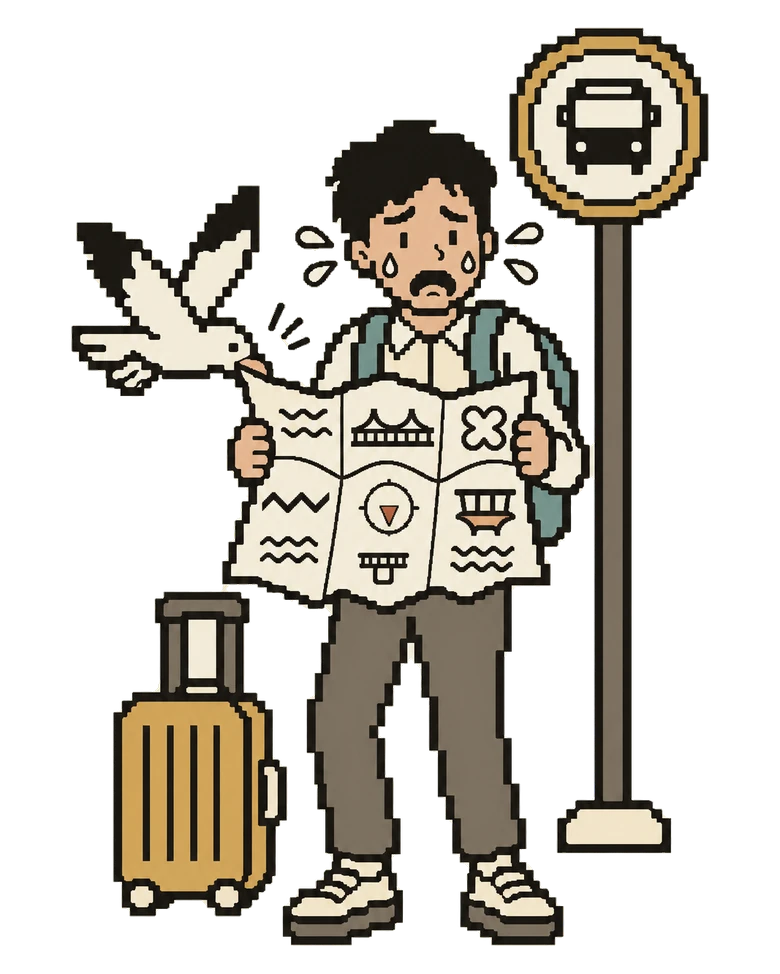
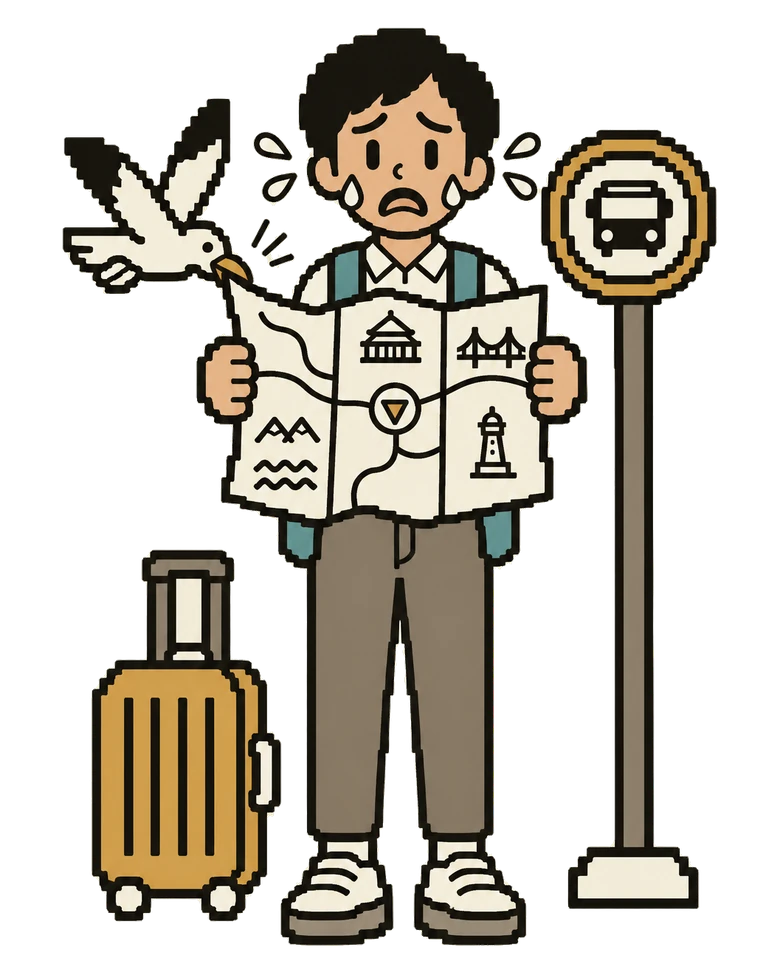
KAN-325 5등급 그림 개정 - 비율·머리 통일, 스탬프 제거, 명예주민 어깨띠, 토박이 건배 자세와 부울경 외곽 지도, 링크 미리보기를 공유 카드 배치로

diff --git a/assets/web/build.py b/assets/web/build.py
@@ -180,24 +180,16 @@ def draw_og(cut: Image.Image) -> Image.Image:
     card.alpha_composite(fig, (OG_PAD, (OG_H - fig.height) // 2))
 
     draw = ImageDraw.Draw(card)
-    left = OG_PAD + int(OG_W * OG_FIGURE_W) + 56
-    avail = OG_W - OG_PAD - left
+    axis = OG_W * 3 // 4  # 카드를 반으로 나눈 오른쪽 절반의 가운데
+    avail = OG_W // 2 - 2 * OG_PAD
 
-    # 제목 종이 조각 — 잉크 테두리 + 오프셋 그림자(KAN-161). 카드가 800×400의 1.5배라 그림자와
-    # 테두리도 그만큼 굵게 잡는다. 조각이 오른쪽 여백을 넘으면 글자를 줄여 맞춘다.
-    pad_x, pad_y = 32, 14
+    # 제목 글자. 오른쪽 절반을 넘으면 글자를 줄여 맞춘다.
     size = 104
-    while True:
-        title_font = ImageFont.truetype(str(FONT_JUA), size)
-        chip_w = int(draw.textlength(OG_TITLE, font=title_font) + 2 * pad_x)
-        if chip_w + 5 <= avail or size <= 56:
-            break
+    title_font = ImageFont.truetype(str(FONT_JUA), size)
+    while draw.textlength(OG_TITLE, font=title_font) > avail and size > 56:
         size -= 4
-    chip_h = size + 2 * pad_y
-    x, y = left, OG_H // 2 - chip_h // 2
-    draw.rectangle([x + 5, y + 6, x + chip_w + 5, y + chip_h + 6], fill=PAPER_SHADOW)
-    draw.rectangle([x, y, x + chip_w, y + chip_h], fill=CREAM, outline=INK, width=4)
-    draw.text((x + pad_x, y + chip_h // 2), OG_TITLE, font=title_font, fill=INK, anchor="lm")
+        title_font = ImageFont.truetype(str(FONT_JUA), size)
+    draw.text((axis, OG_H // 2), OG_TITLE, font=title_font, fill=INK, anchor="mm")
 
     # 브랜드 줄은 본문 고딕이지만, 그 글꼴이 없는 환경(맥 밖)에서는 Jua로 떨어진다. 그때
     # 가운뎃점(U+00B7)이 Jua에 없어 두부가 되므로, 떨어진 경우에만 같은 검사를 건다.
@@ -206,7 +198,16 @@ def draw_og(cut: Image.Image) -> Image.Image:
     else:
         shots.assert_glyphs(OG_BRAND)
         brand_font = ImageFont.truetype(str(FONT_JUA), 30)
-    draw.text((left, OG_H - OG_PAD), OG_BRAND, font=brand_font, fill=MUTED, anchor="ls")
+    # 앱 마크 + 브랜드 줄을 한 묶음으로 제목과 같은 축에 맞춘다.
+    mark = chars.load_mark()
+    mark = mark.resize((mark.width * 45 // mark.height, 45), Image.LANCZOS)
+    gap = 14
+    while mark.width + gap + draw.textlength(OG_BRAND, font=brand_font) > avail:
+        brand_font = brand_font.font_variant(size=brand_font.size - 1)
+    group_w = mark.width + gap + int(draw.textlength(OG_BRAND, font=brand_font))
+    mark_x, mark_y = axis - group_w // 2, OG_H - OG_PAD - mark.height
+    card.alpha_composite(mark, (mark_x, mark_y))
+    draw.text((mark_x + mark.width + gap, mark_y + mark.height // 2), OG_BRAND, font=brand_font, fill=MUTED, anchor="lm")
     return card.convert("RGB")
 
 

diff --git a/assets/characters/wannabe/prompt.md b/assets/characters/wannabe/prompt.md
@@ -1,44 +1,23 @@
-Use case: identity-preserve. Regenerate a portrait 1024x1536 pixel art character asset. The matching current image is the edit target; traveler reference anchors the same person's black hair, head size, body proportions, outline weight and muted palette. Preserve identity across the series. Head size approximately 240 pixels tall including hair, person at least 55% of canvas height. Crisp square pixels on a single consistent coarse grid, chunky silhouette with a one-grid-pixel ink outline. Flat fills ONLY these eight colors: cream #F3ECD9, shade #CFC5AA, ink #1C1A17, warm gray #6B6459, terracotta #A8503A, ochre #C49A4A, dusty teal #6F8F8A, tan #DDB892. Skin is tan. No anti-aliasing, blur, gradients, dithering or texture. Background entirely flat uniform cream #F3ECD9. At least 8% empty margin on EVERY side. No floor, horizon, vignette, logo, signature or watermark. No text except explicitly requested Korean text. Keep the entire figure and every prop within margins.
+Use the built-in `image_gen` tool (default mode, no CLI fallback). Do not ask questions. Do not write SVG or draw by code. Save the file in the current directory, portrait 1024x1536.
 
-Input image 1 is matching current wannabe; image 2 is traveler identity/style reference; image 3 is old paper-cut wannabe ONLY for plain t-shirt and solid black sunglasses, never its medium. Replace outfit with plain short-sleeve cream t-shirt bearing exactly "호소인" large and centered across chest, plain warm gray trousers, sneakers. No jacket, badge or bag strap across text. Solid black sunglasses cover eyes. Head faces FRONT and tilts back slightly; huge open-mouth SHOUT into handheld microphone. Megaphone at hip with exactly three ochre lightning bolts. Half-filled stamp card sticks from trouser pocket. Chest text must be unobstructed, exactly 호소인. Everything in pixel art, no paper-cut styling.
+Attached: (1) the draft of this tier, keep its idea, (2) the proportion reference.
+`wannabe.png`: head tilted back, huge open-mouth shout, solid black sunglasses. Plain cream short-sleeve t-shirt with exactly the Korean text "호소인" large in the center of the chest, shirt fully outlined with both sleeves, both side seams and a continuous hem. One fist grips a black radio speaker microphone at the mouth, fingers wrapped round it. A coiled black cord starts at the bottom of the microphone, comes down through the gap between the raised arm and the torso, and runs outside the shirt's side seam to the narrow end of the megaphone. No cord on the arm. Megaphone at the hip on the viewer's right, clipped to the belt, wide bell facing the viewer's left. Three ochre bolts at thigh and knee level on the viewer's left, none near the groin. Other hand on hip.
 
-
-## 후속 편집 (순서대로)
-
-Use the built-in `image_gen` tool (default mode, no CLI fallback), editing the first attached image. Do not ask questions. Do not write SVG or draw by code. Save `wannabe.png` in the current directory, portrait 1024x1536.
-
-Attached: (1) the base pixel art to edit, its t-shirt is complete and correct, (2) the older paper-cut version, reference ONLY for the radio microphone, coiled cord and megaphone, (3) the last attempt, reference ONLY for the look of the radio microphone body and the round stamps. Attempt 3 has defects listed below, do not copy them.
-
-Keep from image 1: person, face, sunglasses, shout, t-shirt with the Korean text "호소인", trousers, shoes, left arm on hip, pixel style, position and scale.
-
-Make these changes to image 1:
-1. Hand and microphone: replace the ball microphone with a rectangular radio speaker microphone. The raised hand must grip it: fingers wrapped around the microphone body, with the body visibly inside the fist, held at the mouth. It must not float next to the hand.
-2. Megaphone: same place as in image 1, at the hip on the viewer's right, reversed so the wide bell faces the viewer's left and the narrow end faces right. A short strap runs from the viewer's right shoulder down the side of the torso to the megaphone so it hangs from something. The strap stays clear of the text.
-3. Cord: a coiled black cord runs from the bottom of the microphone to the narrow end of the megaphone. It passes OVER the shirt and arm as a separate object, and nothing under it is erased.
-4. Bolts: three ochre lightning bolts from the bell, placed low, on the viewer's left thigh and knee level, fanning left and downward. None in the crotch or groin area.
-5. Stamp card: small, in the trouser pocket on the viewer's left, with round terracotta stamps.
-
-Defects from attempt 3 that must not appear: hand not holding the microphone; the right side seam of the t-shirt missing; the t-shirt hem missing so the shirt melts into the background; the right sleeve missing; bolts on the groin.
-The t-shirt must have a complete closed ink outline: both sleeves, both side seams, and a continuous hem across the waist, all visible around the megaphone and cord.
-
-Use only these flat colors: cream #F3ECD9, shade #CFC5AA, ink #1C1A17, warm gray #6B6459, terracotta #A8503A, ochre #C49A4A, dusty teal #6F8F8A, tan #DDB892. Crisp square pixels, no blur or gradient. Background stays one flat uniform cream #F3ECD9. Nothing touches an edge. No new text, logo or watermark.
-
+Proportions, matching the reference: the head is about one fifth of the full standing height (about 4.7 heads tall), head height about 170 px, whole figure about 800 px tall, same pixel size and ink outline weight, same neat short black hair with a side part.
+NO stamps anywhere: no stamp card, stamp book or stamp circles.
+Pixel art look: crisp square pixels, no blur or gradient. Only these flat colors: cream #F3ECD9, shade #CFC5AA, ink #1C1A17, warm gray #6B6459, terracotta #A8503A, ochre #C49A4A, dusty teal #6F8F8A, tan #DDB892. Skin is tan. Background one flat uniform cream #F3ECD9. No floor or texture. At least 8% empty margin on every side. No logo, signature or watermark.
 After saving, print: DONE wannabe.png <width>x<height>.
 
 
 ---
 
-Use the built-in `image_gen` tool (default mode, no CLI fallback), editing the first attached image. Do not ask questions. Do not write SVG or draw by code. Save `wannabe.png` in the current directory, portrait 1024x1536.
+Use the built-in `image_gen` tool (default mode, no CLI fallback), editing the attached image. Do not ask questions. Do not write SVG or draw by code. Save `wannabe.png` in the current directory, portrait 1024x1536.
 
-Attached: (1) the image to edit, (2) reference ONLY for the t-shirt's right sleeve and side seam.
+Keep everything exactly: person, face, sunglasses, radio microphone in the fist, t-shirt with the Korean text "호소인", sleeves, side seams, hem, belt, trousers, shoes, other hand on hip, colors, position and scale.
 
-Keep everything in image 1 exactly, including the hand gripping the radio microphone, the megaphone, the three bolts, the stamp card, the face, and the text "호소인". Fix only these:
-1. Delete the ochre strap completely. It reads as a stick. Nothing replaces it across the shirt. Restore the plain shirt under it.
-2. Restore the t-shirt's short right sleeve from image 2: the sleeve end with its ink outline wraps the upper arm near the elbow, and the shirt's side seam runs unbroken from the armpit to the hem, as in image 2.
-3. Route the coiled cord from the bottom of the microphone outward, over the forearm, then down outside the elbow to the narrow end of the megaphone. Keep it clear of the sleeve end and side seam so both stay fully visible.
-4. Add one small dark clip joining the narrow end of the megaphone to the waistband, so it hangs from the belt.
+Change only this: raise the megaphone so its center sits at belt height, right beside the belt buckle area, still on the viewer's right side and still facing the viewer's left. Move its clip so it hangs from the belt. The three ochre bolts move up with it, staying beside the bell and to the left of it, level with the upper thigh, none on the groin. The coiled cord still runs unbroken from the microphone to the narrow end of the megaphone, just shorter. The shirt hem, side seam and the text stay fully visible. Trousers where the megaphone used to be are restored plainly.
 
-Checks before saving: shirt outline closed on both sides, continuous hem, both sleeves visible, no ochre line on the torso. Colors, crisp pixels and flat cream background stay as in image 1. Nothing touches an edge. No new text, logo or watermark.
+Crisp square pixels, same colors, flat uniform cream background. Nothing touches an edge. No new text, logo or watermark.
 
 After saving, print: DONE wannabe.png <width>x<height>.
 
@@ -47,10 +26,24 @@ After saving, print: DONE wannabe.png <width>x<height>.
 
 Use the built-in `image_gen` tool (default mode, no CLI fallback), editing the attached image. Do not ask questions. Do not write SVG or draw by code. Save `wannabe.png` in the current directory, portrait 1024x1536.
 
-Keep everything in the attached image exactly, including the face, the hand gripping the radio microphone, the t-shirt with both sleeves, side seams and hem, the text "호소인", the megaphone and its clip, the bolts, the stamp card. Change only these:
-1. Radio microphone: its body becomes near-black #1C1A17, with its grille lines in cream #F3ECD9 so it still reads as a radio. Same shape, size and place, still gripped by the same fingers.
-2. Coiled cord: remove every part of the cord from the forearm and elbow. The arm must be clean bare skin with no cord on it or behind it. Draw a new coiled black cord that starts at the bottom of the microphone, right under the fist, and comes straight down through the gap between the raised arm and the torso, passing on the inner side of the arm, then runs down along the outside of the shirt's right side seam to the narrow end of the megaphone. It is one unbroken cord from microphone to megaphone. It does not touch the text, and does not hide the sleeve end, side seam or hem.
+Keep everything exactly: person, face, sunglasses, radio microphone in the fist, t-shirt with the Korean text "호소인", sleeves, belt, trousers, shoes, other hand on hip, colors, position and scale.
 
-Checks before saving: forearm has no cord; cord is continuous and visibly attached at both ends; shirt outline still closed. Colors, crisp pixels and flat cream background stay as in the image. Nothing touches an edge. No new text, logo or watermark.
+Change only this: move the whole megaphone straight UP by about 130 px, so the vertical center of its bell sits ON the belt line, about y=790 in the 1536 px image. The top of the bell rises over the lower part of the shirt, and the bell hides a short piece of the belt and shirt hem behind it. It stays at the same x position, still facing the viewer's left. The three ochre bolts move up with it by the same amount, staying left of the bell and outside the body at waist level. The coiled cord still runs unbroken from the microphone to the narrow end of the megaphone, just shorter, and stays clear of the text. Restore plain trousers where the megaphone was. The text "호소인" stays fully visible.
+
+Crisp square pixels, same colors, flat uniform cream background. Nothing touches an edge. No new text, logo or watermark.
+
+After saving, print: DONE wannabe.png <width>x<height>.
+
+
+---
+
+Use the built-in `image_gen` tool (default mode, no CLI fallback), editing the attached image. Do not ask questions. Do not write SVG or draw by code. Save `wannabe.png` in the current directory, portrait 1024x1536.
+
+Keep everything exactly, including the megaphone position, the person, the hand on hip, the text "호소인", the cord and the trousers.
+
+Change only this: the three ochre lightning bolts currently sit on top of the hand on the hip, which is wrong. Remove them from there and restore the hand and arm cleanly. Draw three smaller ochre bolts right in front of the megaphone bell, fanning left, on the lower shirt just left of the bell, between the bell and the hand. They touch neither the hand, nor the text, nor the belt buckle.
+Also restore the belt: one continuous belt across the waist with a buckle, passing behind the megaphone.
+
+Crisp square pixels, same colors, flat uniform cream background. Nothing touches an edge. No new text, logo or watermark.
 
 After saving, print: DONE wannabe.png <width>x<height>.

diff --git a/assets/characters/native/prompt.md b/assets/characters/native/prompt.md
@@ -1,3 +1,58 @@
-Use case: identity-preserve. Regenerate a portrait 1024x1536 pixel art character asset. The matching current image is the edit target; traveler reference anchors the same person's black hair, head size, body proportions, outline weight and muted palette. Preserve identity across the series. Head size approximately 240 pixels tall including hair, person at least 55% of canvas height. Crisp square pixels on a single consistent coarse grid, chunky silhouette with a one-grid-pixel ink outline. Flat fills ONLY these eight colors: cream #F3ECD9, shade #CFC5AA, ink #1C1A17, warm gray #6B6459, terracotta #A8503A, ochre #C49A4A, dusty teal #6F8F8A, tan #DDB892. Skin is tan. No anti-aliasing, blur, gradients, dithering or texture. Background entirely flat uniform cream #F3ECD9. At least 8% empty margin on EVERY side. No floor, horizon, vignette, logo, signature or watermark. No text except explicitly requested Korean text. Keep the entire figure and every prop within margins.
+Use the built-in `image_gen` tool (default mode, no CLI fallback). Do not ask questions. Do not write SVG or draw by code. Save `native.png` in the current directory, portrait 1024x1536.
 
-Input image 1 is matching current native; image 2 is traveler identity/style reference. Preserve black suit, wooden ochre chair, seated crossed-leg pose and open stamp book on knee. Tie must be TERRACOTTA #A8503A. Remove map completely, nothing behind person: pure flat cream background. Head tilted DOWN and turned toward open book on knee; eyes lowered to stamps, small satisfied CLOSED-mouth smile. Place chair and person toward LOWER RIGHT, while maintaining at least 8% empty margin on all sides and person at least 55% image height. No text. Keep stamp symbols in book.
+Attached: (1) our earlier native drawing: keep the idea of a person in a dark suit seated on a plain wooden chair, (2) reference for the person, proportions, pixel size and outline weight: head about 170 px tall, neat short black hair with a side part, same face design.
+
+New pose: seated on the plain ochre wooden chair, legs crossed, dark suit, white shirt, terracotta tie. He faces the viewer and raises a stemmed cocktail coupe glass toward the viewer in a confident toast, arm lifted so the glass is at head height beside his face, the glass filled with an ochre drink. His head tilts slightly, with a knowing, charming closed-mouth smile and one eyebrow a little raised, looking straight at the viewer. The other hand rests on his knee. The mood is a relaxed host greeting a guest.
+
+Composition: chair and person sit toward the lower right of the image; the top of the head is no higher than 40% down from the top of the image. The upper left is left completely empty cream, a map will be added there later. Nothing behind the person.
+
+No stamps, stamp book or card. No text.
+Pixel art look: crisp square pixels, no blur or gradient. Only these flat colors: cream #F3ECD9, shade #CFC5AA, ink #1C1A17, warm gray #6B6459, terracotta #A8503A, ochre #C49A4A, dusty teal #6F8F8A, tan #DDB892. Skin is tan. Background one flat uniform cream #F3ECD9. No floor or texture. At least 6% empty margin on every side. No logo, signature or watermark.
+
+After saving, print: DONE native.png <width>x<height>.
+
+
+---
+
+Use the built-in `image_gen` tool (default mode, no CLI fallback). Do not ask questions. Do not write SVG or draw by code. Save `native.png` in the current directory, portrait 1024x1536.
+
+Attached: (1) the current draft: keep this person, dark suit, terracotta tie, crossed legs and plain ochre wooden chair, (2) reference for size, proportions, pixel size and outline weight.
+
+Redraw it larger and centered: head about 170 px tall, as large as in image 2. The seated figure and chair fill the lower two thirds of the image, horizontally centered, feet near the bottom margin, top of the head about 30% down from the top of the image.
+
+Pose: he leans slightly toward the viewer and thrusts the stemmed coupe glass straight out at the viewer in a toast. The raised arm is extended forward, the hand and glass are large in the foreground, at the height of his cheek and right beside his face, the glass bowl about as wide as his face is half wide. Ochre drink in the glass. Head tilted a little, one eyebrow slightly raised, a knowing closed-mouth smile, eyes straight at the viewer. The other hand rests on his knee.
+
+Nothing behind the person; the top of the image stays empty cream, a map will be added later. No stamps. No text.
+Pixel art look: crisp square pixels, no blur or gradient. Only these flat colors: cream #F3ECD9, shade #CFC5AA, ink #1C1A17, warm gray #6B6459, terracotta #A8503A, ochre #C49A4A, dusty teal #6F8F8A, tan #DDB892. Skin is tan. Background one flat uniform cream #F3ECD9. No floor or texture. At least 6% empty margin on every side. No logo, signature or watermark.
+
+After saving, print: DONE native.png <width>x<height>.
+
+
+---
+
+Use the built-in `image_gen` tool (default mode, no CLI fallback), editing the first attached image. Do not ask questions. Do not write SVG or draw by code. Save `native.png` in the current directory, portrait 1024x1536.
+
+Attached: (1) the image to edit, (2) reference for pixel size and ink outline weight.
+
+Keep the person, face, expression, suit, tie, crossed legs, chair, composition, position and overall size of image 1.
+Change only these:
+1. Redraw with the finer pixel size and thinner ink outline of image 2. Image 1's pixels and outlines are too chunky.
+2. The fist holding the glass is too big: make the hand the same size as the hand on his knee, a natural hand.
+3. Make the glass read clearly as a stemmed coupe: shallow bowl, thin visible stem, round foot. His fingers pinch the stem below the bowl, so the stem and the foot both show below the fingers.
+
+The glass stays beside his cheek, thrust toward the viewer. Top of the image stays empty cream. No stamps, no text.
+Only these flat colors: cream #F3ECD9, shade #CFC5AA, ink #1C1A17, warm gray #6B6459, terracotta #A8503A, ochre #C49A4A, dusty teal #6F8F8A, tan #DDB892. Crisp square pixels, flat uniform cream background. No logo or watermark.
+
+After saving, print: DONE native.png <width>x<height>.
+
+
+---
+
+Use the built-in `image_gen` tool (default mode, no CLI fallback), editing the attached image. Do not ask questions. Do not write SVG or draw by code. Save `native.png` in the current directory, portrait 1024x1536.
+
+Keep the whole image exactly: hair, head angle, nose, mouth, right eye, right eyebrow, suit, tie, hand, glass, legs, chair, position, scale, colors, pixel size.
+Change only the eyebrow on the viewer's left: lift it a little higher so it no longer touches the eye, leaving a clear gap of skin between eyebrow and eye. Keep the same brow shape and thickness. Show that eye complete: a full rounded dark oval with a thin curved lid line above it, the same style as the eye on the viewer's right. The eyebrow on the viewer's right stays a little higher than this one.
+
+Top of the image stays empty cream. No text. Crisp square pixels, flat uniform cream background #F3ECD9. No logo or watermark.
+
+After saving, print: DONE native.png <width>x<height>.

diff --git a/assets/characters/outsider/prompt.md b/assets/characters/outsider/prompt.md
@@ -1,2 +1,21 @@
-Create one final Accentury dialect-trip tier character illustration, portrait PNG exactly 1024x1536. Both supplied images are our own drafts: image 1 outsider and image 2 native. Use BOTH as references for the exact same person, short side-parted black hair, identical face, head size and body proportions, and their chunky pixel art style, palette feel and outline weight. Render crisp square pixels on a single consistent coarse pixel grid (approximately 8 output pixels per art pixel), with a 1-art-pixel ink outline. Flat fills only. No anti-aliasing, blur, gradients, dithering, texture or vignette. Use ONLY these eight exact colors: cream #F3ECD9, shade #CFC5AA, ink #1C1A17, warm gray #6B6459, terracotta #A8503A, ochre #C49A4A, dusty teal #6F8F8A, tan #DDB892. Skin tan. Earthy muted colors, never bright. Uniform flat cream #F3ECD9 background. No floor line or horizon. Keep all art inside x=88..936 and y=128..1408, leaving at least 8% empty margin on every side. Person occupies at least 55% canvas height; head consistently about 210px wide, same scale across the set. Props must not dwarf him. Terracotta is restricted to ONE small item per image. No text except the expressly requested Korean badge or flag text for applicable characters. No title, logo, signature or watermark. 
-Scene: Tier outsider (외지인). Recreate the scene and pose of reference image 1: confused worried traveler standing with backpack, sweat drops, large unfolded map held in both hands, small airplane to his left, wheeled suitcase on left and bus stop sign on right. Suitcase MUST be ochre, not terracotta. Map is visibly held upside down: every pictorial icon including bridges and landmark symbols is inverted by 180 degrees, and the compass triangle needle points DOWN. Only the small downward compass needle is terracotta; all other map marks ink. Bus sign rim ochre. Preserve the reference person's identity and scene, fit all props within margins. No written text.
+Use the built-in `image_gen` tool (default mode, no CLI fallback). Do not ask questions. Do not write SVG or draw by code. Save the file in the current directory, portrait 1024x1536.
+
+Attached: (1) the draft of this tier, keep its scene and expression, (2) the proportion reference.
+`outsider.png`: facing front, crying and sweating, holding the map, one seagull tugging its corner, bus stop pole with round bus sign, ochre suitcase, teal backpack straps. No text.
+
+Proportions, matching the reference: the head is about one fifth of the full standing height (about 4.7 heads tall), head height about 170 px, whole figure about 800 px tall, same pixel size and ink outline weight, same neat short black hair with a side part.
+NO stamps anywhere: no stamp card, stamp book or stamp circles.
+Pixel art look: crisp square pixels, no blur or gradient. Only these flat colors: cream #F3ECD9, shade #CFC5AA, ink #1C1A17, warm gray #6B6459, terracotta #A8503A, ochre #C49A4A, dusty teal #6F8F8A, tan #DDB892. Skin is tan. Background one flat uniform cream #F3ECD9. No floor or texture. At least 8% empty margin on every side. No logo, signature or watermark.
+After saving, print: DONE outsider.png <width>x<height>.
+
+
+---
+
+Use the built-in `image_gen` tool (default mode, no CLI fallback), editing the first attached image. Do not ask questions. Do not write SVG or draw by code. Save `outsider.png` in the current directory, portrait 1024x1536.
+
+Attached: (1) the image to edit, (2) reference for how large the person should be.
+Keep the scene, expression, map, seagull, bus sign and suitcase. Make the person as large as in image 2: head about 170 px tall, whole figure about 800 px tall, so the whole group fills the frame. Shorten the bus stop pole so its round sign sits just above the person's head level. The suitcase and seagull scale with the person. Plain warm gray trousers with no cargo pockets.
+
+No stamps. No text. Crisp square pixels, same 8 flat colors, flat uniform cream background #F3ECD9, at least 8% empty margin on every side. No logo or watermark.
+
+After saving, print: DONE outsider.png <width>x<height>.

diff --git a/assets/characters/honorary/prompt.md b/assets/characters/honorary/prompt.md
@@ -1,3 +1,24 @@
-Use case: identity-preserve. Regenerate a portrait 1024x1536 pixel art character asset. The matching current image is the edit target; traveler reference anchors the same person's black hair, head size, body proportions, outline weight and muted palette. Preserve identity across the series. Head size approximately 240 pixels tall including hair, person at least 55% of canvas height. Crisp square pixels on a single consistent coarse grid, chunky silhouette with a one-grid-pixel ink outline. Flat fills ONLY these eight colors: cream #F3ECD9, shade #CFC5AA, ink #1C1A17, warm gray #6B6459, terracotta #A8503A, ochre #C49A4A, dusty teal #6F8F8A, tan #DDB892. Skin is tan. No anti-aliasing, blur, gradients, dithering or texture. Background entirely flat uniform cream #F3ECD9. At least 8% empty margin on EVERY side. No floor, horizon, vignette, logo, signature or watermark. No text except explicitly requested Korean text. Keep the entire figure and every prop within margins.
+Use the built-in `image_gen` tool (default mode, no CLI fallback). Do not ask questions. Do not write SVG or draw by code. Save `honorary.png` in the current directory, portrait 1024x1536.
 
-Input image 1 is matching current honorary; image 2 is traveler identity/style reference. Preserve teal hiking hat, cream hiking shirt, teal backpack, cargo trousers, sneakers, mountain, two clouds, stamp card and terracotta pennant with exactly "명예주민". Head in unmistakable SIDE PROFILE facing viewer's RIGHT, gazing far into distance with calm closed-mouth smile. One hand shades the eyes at brow; other holds pennant pole. Stamp card remains attached to backpack. Preserve same person's recognizable hair and head scale. Only text is 명예주민 on pennant.
+Attached: (1) our current `honorary`: match the person, hat, shirt, cargo trousers, boots, backpack and stamp card, (2) our current `wannabe`: reference for a front-facing body, head size and proportions. Same person, same pixel style, outline weight and palette.
+
+New image: the person stands facing the viewer, full front view, feet apart, looking straight at the viewer with a bright, wide, open-mouth smile, eyes happy and visible. Teal bucket hat, cream shirt with rolled sleeves, warm gray cargo trousers, boots, backpack straps on both shoulders. One hand waves at shoulder height, the other holds up the full stamp card with six round stamps.
+
+A wide terracotta sash runs diagonally across the chest, from the shoulder on the viewer's left to the hip on the viewer's right, over the backpack strap, like a pageant sash. It carries exactly the Korean text "명예주민" in large cream letters, written along the sash, all four characters fully legible and not covered by the arm or the card. Keep it straight and unwrinkled so the text stays clean.
+
+No flag, no mountain, no clouds, no other scenery. No ground.
+
+Pixel art look: crisp square pixels of one size, no anti-aliasing, blur, gradient or dithering. Chunky silhouette with a 1-pixel ink outline.
+Use only these 8 flat colors: cream #F3ECD9, shade #CFC5AA, ink #1C1A17, warm gray #6B6459, terracotta #A8503A, ochre #C49A4A, dusty teal #6F8F8A, tan #DDB892. Skin is tan.
+Person takes at least 70% of the image height. Background: one flat, uniform cream #F3ECD9. At least 8% empty margin on every side. No other text, logo, signature or watermark.
+
+After saving, print: DONE honorary.png <width>x<height>.
+
+
+---
+
+Use the built-in `image_gen` tool (default mode, no CLI fallback). Do not ask questions. Do not write SVG or draw by code. Save the file in the current directory, portrait 1024x1536.
+
+Edit the attached image only. Keep everything exactly: person, face, hat, sash and its text, backpack, trousers, boots, waving hand, position and scale.
+Change only this: remove the stamp card and its clip. The hand that held it now gives a cheerful thumbs up at chest height, with the rolled sleeve kept. Save as `honorary.png`.
+Crisp square pixels, same colors, flat uniform cream background. Print: DONE honorary.png <width>x<height>.

diff --git a/assets/characters/traveler/prompt.md b/assets/characters/traveler/prompt.md
@@ -1,3 +1,9 @@
-Use case: identity-preserve. Regenerate a portrait 1024x1536 pixel art character asset. The matching current image is the edit target; traveler reference anchors the same person's black hair, head size, body proportions, outline weight and muted palette. Preserve identity across the series. Head size approximately 240 pixels tall including hair, person at least 55% of canvas height. Crisp square pixels on a single consistent coarse grid, chunky silhouette with a one-grid-pixel ink outline. Flat fills ONLY these eight colors: cream #F3ECD9, shade #CFC5AA, ink #1C1A17, warm gray #6B6459, terracotta #A8503A, ochre #C49A4A, dusty teal #6F8F8A, tan #DDB892. Skin is tan. No anti-aliasing, blur, gradients, dithering or texture. Background entirely flat uniform cream #F3ECD9. At least 8% empty margin on EVERY side. No floor, horizon, vignette, logo, signature or watermark. No text except explicitly requested Korean text. Keep the entire figure and every prop within margins.
+Use the built-in `image_gen` tool (default mode, no CLI fallback). Do not ask questions. Do not write SVG or draw by code. Save the file in the current directory, portrait 1024x1536.
 
-Input image 1 is the matching current traveler and also the series identity reference. Preserve tropical teal floral shirt, shorts, sandals, ochre swim ring, camera and stamp card. Change expression and head direction decisively: head turned three-quarter toward viewer's LEFT, chin lifted toward the stamp card held HIGH on viewer's left, eyes shut in happy arcs, big open-mouth laugh. Move the raised arm and stamp card to viewer's left so the head looks naturally toward the held card. Keep other hand on hip. No text anywhere.
+Attached: (1) the draft of this tier, keep its outfit and mood, (2) the proportion reference.
+`traveler.png`: head three-quarter toward the viewer's left, looking up at a soft-serve ice cream cone held high in one hand, eyes shut in happy arcs, big open-mouth laugh, other hand on hip. Teal Hawaiian shirt, sunglasses pushed up on the head, camera on neck strap, ochre striped swim ring, flip-flops. No text.
+
+Proportions, matching the reference: the head is about one fifth of the full standing height (about 4.7 heads tall), head height about 170 px, whole figure about 800 px tall, same pixel size and ink outline weight, same neat short black hair with a side part.
+NO stamps anywhere: no stamp card, stamp book or stamp circles.
+Pixel art look: crisp square pixels, no blur or gradient. Only these flat colors: cream #F3ECD9, shade #CFC5AA, ink #1C1A17, warm gray #6B6459, terracotta #A8503A, ochre #C49A4A, dusty teal #6F8F8A, tan #DDB892. Skin is tan. Background one flat uniform cream #F3ECD9. No floor or texture. At least 8% empty margin on every side. No logo, signature or watermark.
+After saving, print: DONE traveler.png <width>x<height>.
